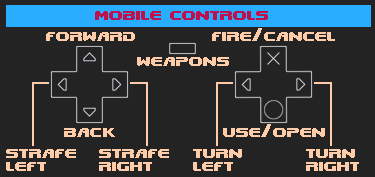
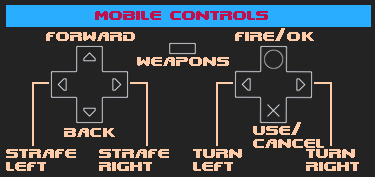
mouse support

diff --git a/plates/fps.html b/plates/fps.html
@@ -245,10 +245,16 @@
 		// clear fire button
 		pico8_buttons[0] = 0;
 
+		// left (fire/ok)
 		if(e.buttons & 0x1) {
 			pico8_buttons[0] |= 0x20;
 		}
-		if(e.buttons & 0x2) {
+		// right (open/cancel)
+		if(e.buttons & (0x2|0x8)) {
+			pico8_buttons[0] |= 0x10;
+		}
+		// middle
+		if(e.buttons & 0x4) {
 			pico8_buttons[0] |= 0x40;
 		}
 	}
